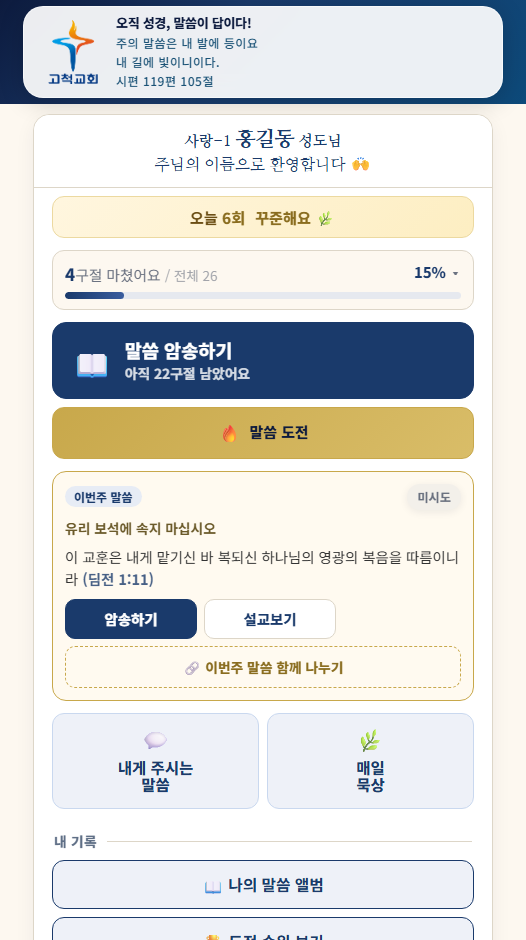
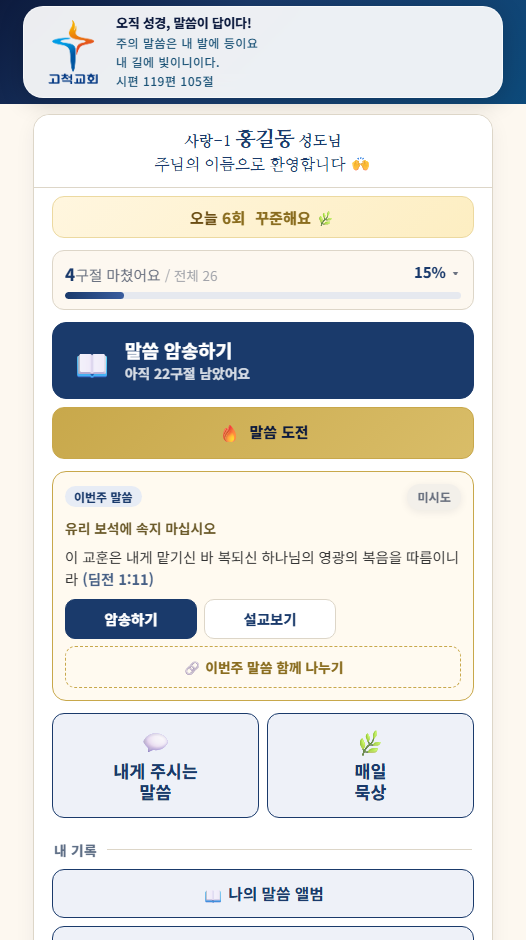
fix(첫화면): 설교 두 칸의 테두리를 목록 단추와 맞추고 글씨를 키운다
테두리를 옅은 선(#c9d8ef)으로 두었더니 같은 무게의 기능인데 이 둘만 흐릿하게
물러나 보였다. 「나의 말씀 앨범」과 똑같이 var(--navy) 1.5px 로 맞춘다.

칸이 큰데 글씨가 목록 단추와 같은 크기(.97rem)여서 작아 보였다 → 1.08rem,
아이콘도 1.45 → 1.6rem.

⚠ `.summary-actions .act-tx` 가 뒤에 있어 그냥 두면 되돌아간다 —
   .feat-actions 로 특정도를 올려 눌러 둔다.

diff --git a/index.html b/index.html
@@ -52,7 +52,7 @@
   <link rel="preconnect" href="https://fonts.gstatic.com" crossorigin />
   <link href="https://fonts.googleapis.com/css2?family=Gowun+Batang:wght@400;700&family=Lora:wght@400;600;700&family=Nanum+Myeongjo:wght@400;700;800&family=Noto+Sans+KR:wght@400;500;700;800&display=swap" rel="stylesheet" media="print" onload="this.media='all'" />
   <noscript><link href="https://fonts.googleapis.com/css2?family=Gowun+Batang:wght@400;700&family=Lora:wght@400;600;700&family=Nanum+Myeongjo:wght@400;700;800&family=Noto+Sans+KR:wght@400;500;700;800&display=swap" rel="stylesheet" /></noscript>
-  <link rel="stylesheet" href="style.css?v=20260902f" />
+  <link rel="stylesheet" href="style.css?v=20260902g" />
 </head>
 <body>
   <!-- 앱 시작 스플래시 화면 -->
@@ -61,7 +61,7 @@
       <img id="splash-logo" src="https://summer.onlybible.kr/logo3.png" alt="고척교회" />
       <div class="splash-title">오직 성경, 말씀이 답이다!</div>
       <div class="splash-sub">주의 말씀은 내 발에 등이요<br>내 길에 빛이니이다</div>
-      <div class="splash-ver">v3.265</div>
+      <div class="splash-ver">v3.266</div>
       <img class="splash-denom" src="logo3.png?v=20260702y" alt="대한예수교장로회총회" onerror="this.style.display='none'" />
     </div>
   </div>
@@ -94,9 +94,9 @@
     <p style="text-align:center;padding:40px">불러오는 중...</p>
   </main>
 
-  <script src="js/config.js?v=20260902f"></script>
-  <script src="js/api.js?v=20260902f"></script>
-  <script src="js/push.js?v=20260902f"></script>
-  <script src="app.js?v=20260902f"></script>
+  <script src="js/config.js?v=20260902g"></script>
+  <script src="js/api.js?v=20260902g"></script>
+  <script src="js/push.js?v=20260902g"></script>
+  <script src="app.js?v=20260902g"></script>
 </body>
 </html>

diff --git a/style.css b/style.css
@@ -3994,8 +3994,14 @@ body.ab-playing .verse-grid { padding-bottom: 200px; }
 .summary-help .new-badge { position: absolute; top: 6px; right: 8px; margin: 0; }
 /* 신기능 셋 — 저마다 가진 그라데이션을 걷어내고 「앱 안의 다른 기능」 한 단계로 */
 .summary-go.sermon-act, .summary-go.med-act, .summary-go.passages-act {
-  background: #eef1f8; color: var(--navy); border-color: #c9d8ef;
+  /* 테두리를 아래 목록 단추(.summary-help)와 똑같이 — 옅은 선(#c9d8ef)을 쓰니
+     같은 무게의 기능인데 이 둘만 흐릿하게 물러나 보였다(2026-09-02). */
+  background: #eef1f8; color: var(--navy); border-color: var(--navy);
 }
+/* 두 칸 안의 글씨 — 칸이 큰데 글씨가 목록 단추와 같아 작아 보였다.
+   ⚠ `.summary-actions .act-tx`(.97rem)가 이 뒤에 오지 않게 여기서 눌러 준다. */
+.summary-actions.feat-actions .act-tx { font-size: 1.08rem; line-height: 1.2; }
+.summary-actions.feat-actions .act-ic { font-size: 1.6rem; }
 .summary-go.sermon-act:hover, .summary-go.med-act:hover, .summary-go.passages-act:hover {
   background: var(--navy); color: #fff; border-color: var(--navy);
 }

diff --git a/admin.html b/admin.html
@@ -71,7 +71,7 @@
 
   // 관리 도구 목록 — 앞으로 여기에 한 줄씩 추가하면 됩니다
   const TOOLS = [
-    { ic:"📖", title:"성경암송 관리", desc:"통계 · 알림발송 · 주간리포트 · 게시판", href:"admin-stats.html?v=20260902f" },
+    { ic:"📖", title:"성경암송 관리", desc:"통계 · 알림발송 · 주간리포트 · 게시판", href:"admin-stats.html?v=20260902g" },
     { ic:"🎵", title:"찬양 아카이브 관리", desc:"곡 등록 · 콤보순서 · 조회수 · 사용현황", href:"admin-praise.html" },
     { ic:"📜", title:"말씀 아카이브 관리", desc:"설교 제목 · 예배일 · 구분 · 숨김 · 삭제", href:"admin-sermon.html" },
     { ic:"🔎", title:"내게 주시는 말씀", desc:"설교 아카이브를 AI로 검색·질의 · 색인 관리", href:"admin-sermon-chat.html" },
